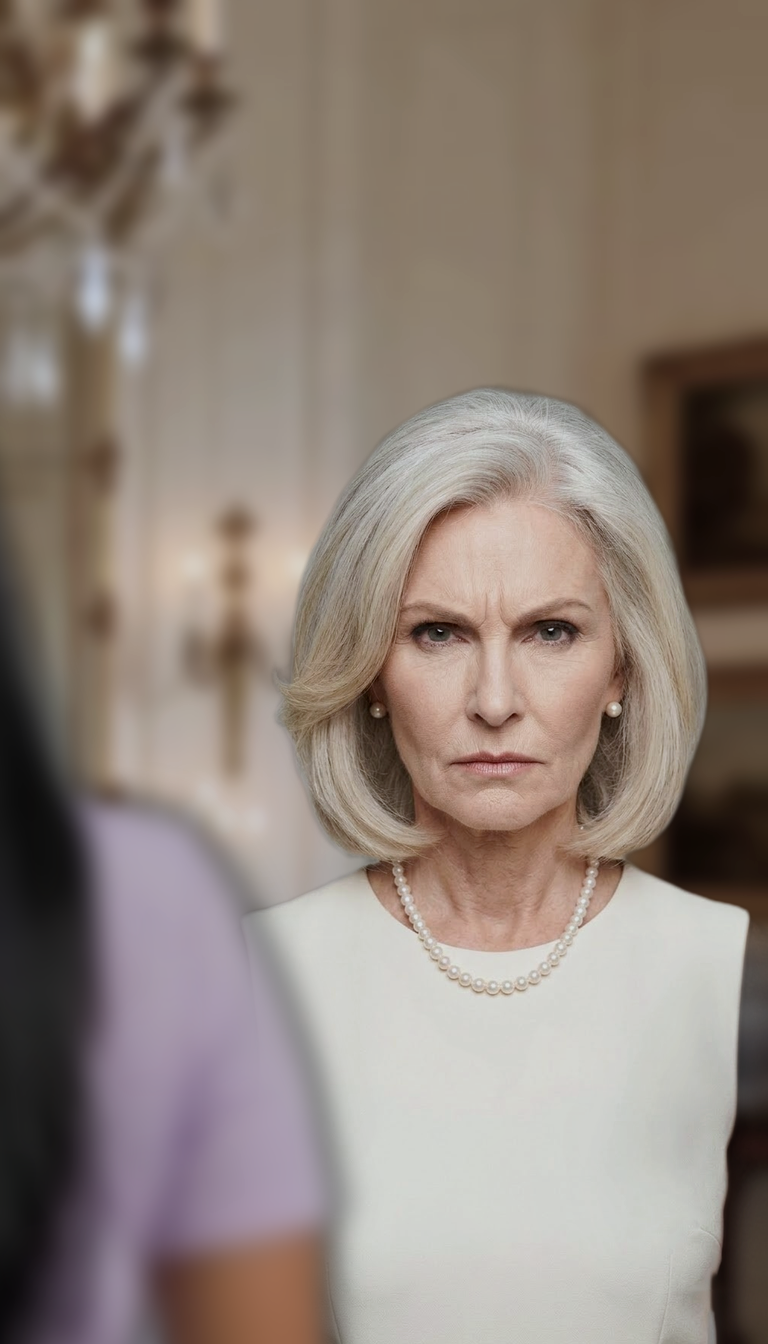
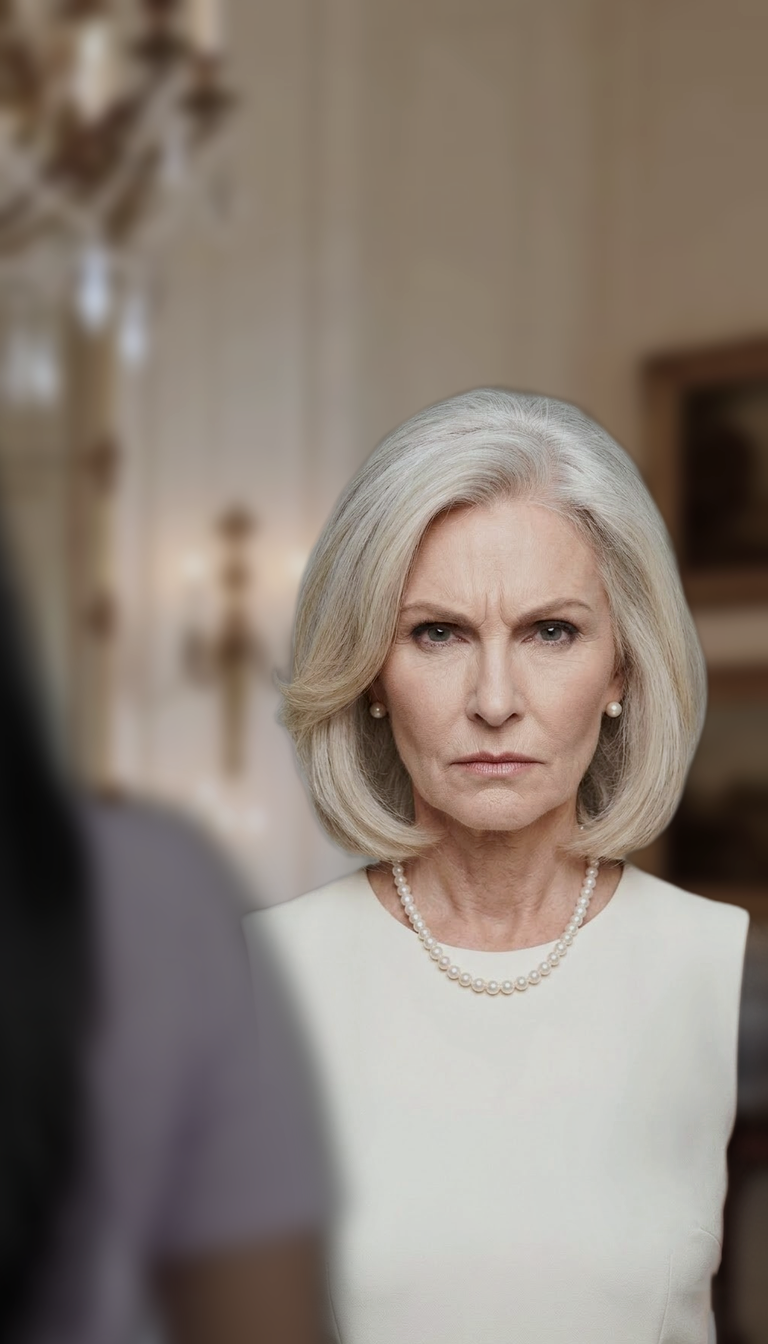
Part 2 stills: darker foreground backs
Claude-Session: https://claude.ai/code/session_01PFv53KeGngBj5SrFtw8MQY

Changed region(s): [[0.0625, 0.5938, 0.4375, 1.0]]

diff --git a/experiments/ai_story/make_ots_stills.py b/experiments/ai_story/make_ots_stills.py
@@ -28,7 +28,7 @@ def fg_back(name, side):
     s=3.0
     big=im.resize((int(im.width*s),int(im.height*s)),Image.LANCZOS)
     big=big.rotate(6 if side=="L" else -6, resample=Image.BICUBIC, center=(big.width//2, int(top*s)))
-    rgb=ImageEnhance.Brightness(big.convert("RGB")).enhance(0.78); rgb.putalpha(big.getchannel("A"))
+    rgb=ImageEnhance.Brightness(big.convert("RGB")).enhance(0.5); rgb=ImageEnhance.Color(rgb).enhance(0.7); rgb.putalpha(big.getchannel("A"))
     big=rgb.filter(ImageFilter.GaussianBlur(13))
     edge = head[2]*s if side=="L" else head[0]*s      # head edge facing the speaker
     target = W*0.20 if side=="L" else W*0.80
